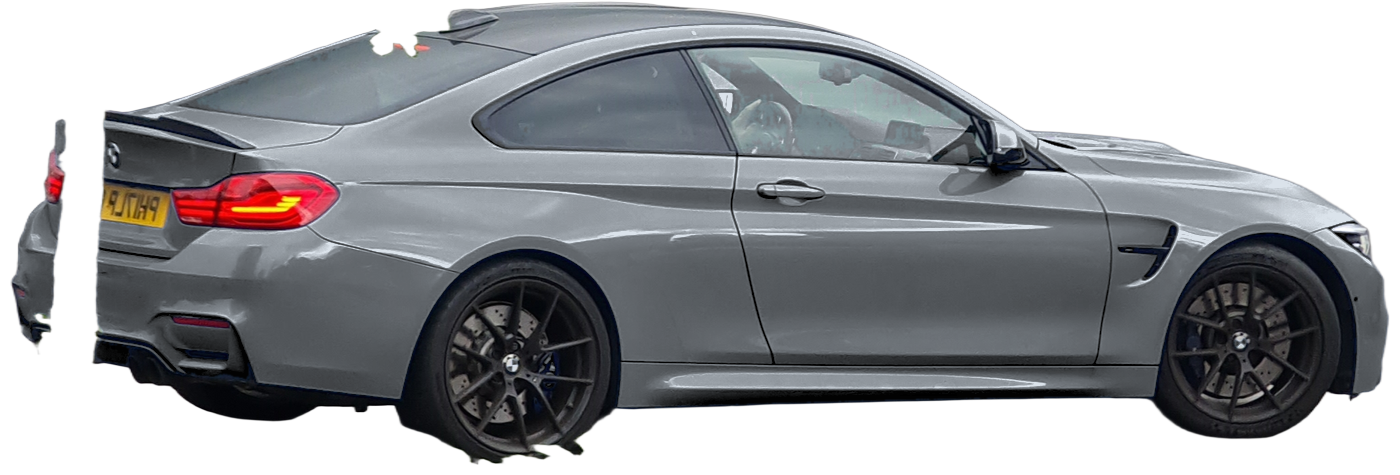
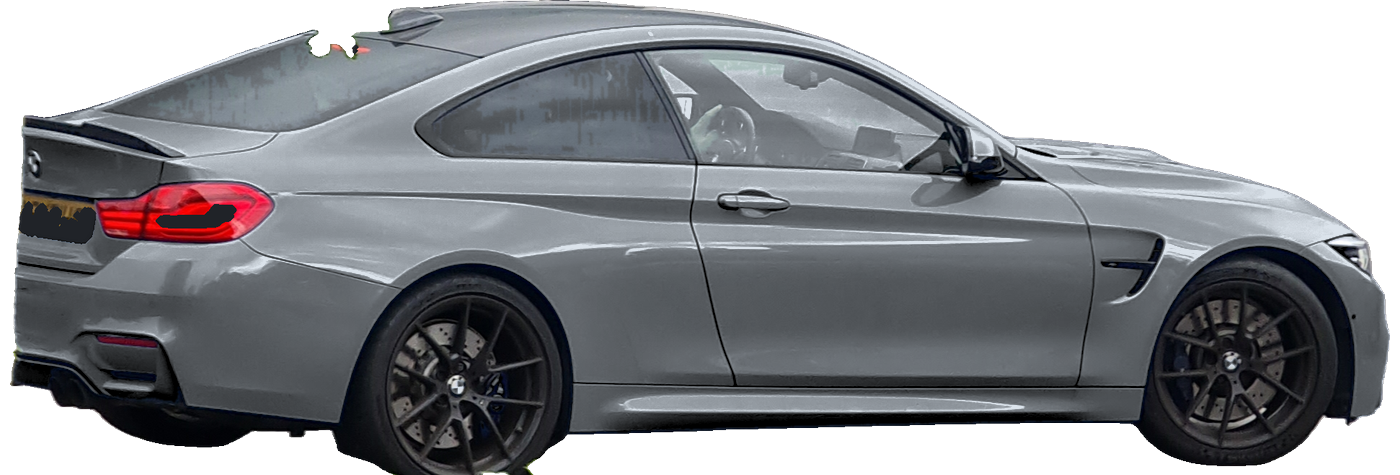
fix(garage): eliminate floating rear bumper slice, fill roof hole, and remove mirrored license plate on BMW M4

diff --git a/frontend/src/lib/vehicleStyle.ts b/frontend/src/lib/vehicleStyle.ts
@@ -460,7 +460,7 @@ function parseHexRgb(hex: string): [number, number, number] | null {
   return null
 }
 
-export const VEHICLE_IMAGE_CACHE_VERSION = '20261107_birefnet'
+export const VEHICLE_IMAGE_CACHE_VERSION = '20261107_v3_clean'
 
 /**
  * Resolves color-accurate, transparent cut-out photograph for the 2018 Mercedes-Benz E400 Coupe.
